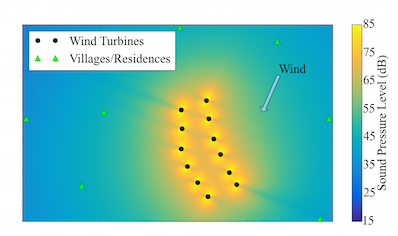
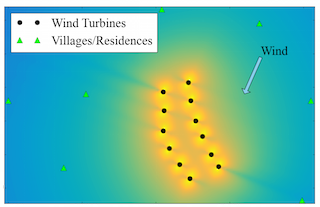
update research page

diff --git a/research/index.html b/research/index.html
@@ -199,7 +199,7 @@
       <span class="sidebar-nav-item">Currently v2.1.0</span> -->
     </nav>
 
-    <p>&copy; 2015. All rights reserved.</p>
+    <p>&copy; 2016. All rights reserved.</p>
   </div>
 </div>
 
@@ -207,20 +207,45 @@
     <div class="content container">
       <div class="page">
   <h1 class="page-title">Research</h1>
-  <h1 id="current-projects">Current Projects</h1>
+  <h2 id="current-projects">Current Projects</h2>
+
+<h3 id="wing/blade-aeroelastic-optimization-using-isogeometric-analysis-(iga)">Wing/Blade Aeroelastic Optimization Using Isogeometric Analysis (IGA)</h3>
+
+<p><img src="wing.png" class="width-half"></p>
+
+<p>CAD formats provide a rich geometric description but usually require manual geometry repair and mesh generation steps that makes automating high-fidelity analyses difficult.  IGA generalizes finite element analysis to allow operation directly on an analysis-suitable geometry.  In addition, with IGA we can provide exact gradients of structural outputs.  This allows us to efficiently use optimization methods on rich geometries for applications in flexible aircraft wing and wind turbine blade aerostructural design.</p>
+
+<div style="clear: both;"></div>
+
+<ul>
+<li>PI: <a href="http://isogeometric.et.byu.edu">Michael Scott</a> (Civil Eng.)</li>
+<li>Students: Bryce Ingersoll, Kyle Richardson (Civil Eng.)</li>
+<li>Sponsor: Internal Research Initiation Grant</li>
+</ul>
+
+<hr>
 
 <h3 id="wind-farm-optimization-under-uncertainty">Wind Farm Optimization Under Uncertainty</h3>
 
-<p>Effective wind farm optimization involves a large number of design variables and contains many sources of uncertainty (e.g., wind direction, wind speed, turbulence levels, wake model parameters, etc.).  We are developing scalable methods for large-scale optimization, uncertainty quantification, and optimization under uncertainty and applying these methods to advance energy sustainability through improved wind farm performance. </p>
+<p><img src="wind-rose2.png" class="width-half"></p>
+
+<p>Effective wind farm optimization involves a large number of design variables and contains many sources of uncertainty (e.g., wind direction, wind speed, turbulence levels, wake model parameters, etc.).  We are developing methodology for large-scale optimization under uncertainty with applications in improving the robustness of wind farm energy capture. </p>
+
+<div style="clear: both;"></div>
 
 <ul>
+<li>Students: P.J. Stanley, Jared Thomas</li>
+<li>Collaborators: Juan Alonso (Stanford), Santiago Padron (Stanford)</li>
 <li>Sponsor: <a href="http://www.nsf.gov/awardsearch/showAward?AWD_ID=1539384">National Science Foundation</a></li>
-<li>Co-PI: Juan Alonso (Stanford)</li>
 </ul>
+
+<hr>
 
 <h3 id="vawt-wake-model-development">VAWT Wake Model Development</h3>
 
-<p><img src="vawt_wake.jpg" class="research-image img-left"></p>
+<p><img src="vawt-velocity.png" class="width-full"></p>
+
+<!-- <img src="vawt_wake.jpg" class="research-image img-left"> -->
 
 <p>Vertical axis wind turbines (VAWTs) are a promising technology for offshore applications and in the built environment.  Performance of wind farms is highly dependent on effective integration, and this research is focused on developing engineering wake models for VAWTs to enable farm optimization.</p>
 
@@ -229,68 +254,81 @@
 <!-- VAWT wind farms will face similar challenges, but VAWTs have very different wake behavior that must be understood to effectively design their layout. The evolution of wakes behind wind turbines is a complex turbulent process that can be visualized with high-fidelity instrumentation or high-fidelity simulation. However, for performing layout optimization, which must broadly explore many configurations, simpler engineering wake models are needed. This research effort is focused on developing VAWT engineering wake models to enable effective VAWT wind farm layout optimization. -->
 
 <ul>
-<li>Students: <a href="../people/eric">Eric Tingey</a>, Nick Bons (graduated), Dagan Pielstick</li>
+<li>Students: Eric Tingey, Dagan Pielstick, Nick Bons</li>
 <li>Sponsors: Internal seed grant (<a href="https://orca.byu.edu/meg/">MEG Grant</a>)</li>
+<li>Publications: <a href="../publications/#Tingey2016">Parametric VAWT Model</a></li>
 </ul>
+
+<hr>
 
 <h3 id="integrated-wind-farm-layout-optimization">Integrated Wind Farm Layout Optimization</h3>
 
-<p><img src="windRose.png" class="research-image img-right"></p>
+<p><img src="wind-farm.png" class="width-half"></p>
 
-<p>Efficient layout design is a significant challenge, and today’s wind farms underperform energy capture expectations by around 10-20%.  We seek to efficiently combine turbine, layout, and controls optimization in an integrated manner.  Recent work has compared the <a href="../publications/#Thomas2015">impact of two different wake models on optimization</a> and conducted initial studies in combined <a href="../publications/#Fleming2015">layout-yaw optimization</a></p>
+<p>Efficient layout design is a significant challenge, and today’s wind farms underperform energy capture expectations by around 10-20%.  We seek to efficiently combine turbine, layout, and controls optimization in an integrated manner.</p>
 
 <!-- Wind plant controls seek to improve global wind plant performance over control systems in which each turbine optimizes only its individual performance by accounting for the way wind turbines interact through their wakes.   -->
 
+<div style="clear: both;"></div>
+
 <ul>
-<li>Students: <a href="../people/jared">Jared Thomas</a></li>
-<li>Sponsors: <a href="http://www.nrel.gov">National Renewable Energy Laboratory</a></li>
+<li>Students: Jared Thomas</li>
 <li>Collaborators: Pieter Gebraad, Paul Fleming, Katherine Dykes</li>
+<li>Sponsors: <a href="http://www.nrel.gov">National Renewable Energy Laboratory</a></li>
+<li>Publications: <a href="../publications/#Gebraad2015">Impact on Annual Energy Production</a>, <a href="../publications/#Thomas2015">Comparison of Two Wake Models</a>, <a href="../publications/#Fleming2015">Combined Layout-Yaw Optimization</a></li>
 </ul>
+
+<hr>
 
 <h3 id="free-form-aerostructural-rotor-design">Free-form Aerostructural Rotor Design</h3>
 
-<p><img src="clsurf.png" class="research-image img-left"></p>
+<p><img src="blade.png" class="width-half"></p>
 
-<p>By free-form design we mean simultaneous airfoil and blade design as opposed to the traditional sequential approach.  We are exploring free-form design through a range of fidelities.  <a href="../publications/Barrett2015">Initial studies</a> have been helpful in quantifying expected benefits.</p>
+<p>Free-form design means simultaneous airfoil and blade design as opposed to the traditional sequential approach.  We are exploring free-form design through a range of fidelities including pretabulated data, panel methods, 2D CFD, and 3D CFD.</p>
 
 <div style="clear: both;"></div>
 
 <ul>
 <li>Students: <a href="../people/ryan">Ryan Barrett</a></li>
+<li>Publications: <a href="../publications/#Barrett2015a">Precomputational Methods</a>, <a href="../publications/#Barrett2015">Aerostructural Blade Optimization</a>.</li>
 </ul>
+
+<hr>
 
 <h3 id="acoustic-impacts-on-wind-farm-layout">Acoustic Impacts on Wind Farm Layout</h3>
 
-<p><img src="SPL.png" class="research-image img-right"></p>
+<p><img src="SPL.png" class="width-half"></p>
 
-<p>Acoustics can play an important role in wind farm design and we are interested in understanding its impact through <a href="../publications/#Tingey2015">optimization</a> and in developing better acoustic models for wind farms.</p>
+<p>Acoustics can play an important role in wind farm design and we are interested in understanding its impact through optimization and in developing better acoustic models for wind farms.</p>
 
 <div style="clear: both;"></div>
 
 <ul>
 <li>Students: <a href="../people/eric">Eric Tingey</a></li>
+<li>Publications: <a href="../publications/#Tingey2015">Layout Optimization with Acoustic Constraints</a></li>
 </ul>
 
-<h3 id="passive-flow-control-devices-for-low-reynolds-number-propellers">Passive-Flow Control Devices for Low Reynolds Number Propellers</h3>
-
-<p>We are conducting wind tunnel tests to characterize performance of novel UAV propeller concepts.</p>
-
-<ul>
-<li>Students: Kevin Moore</li>
-</ul>
+<hr>
 
 <h3 id="unmanned-aerial-vehicle-trajectory-optimization">Unmanned Aerial Vehicle Trajectory Optimization</h3>
+
+<p><img src="path-planning.png" class="width-half"></p>
 
 <p>Robust UAV trajectory optimization is steeped with challenges including static and dynamic obstacles, performance variability, uncertain environmental conditions, component failures, etc.  We are exploring convex optimization approaches, exploratory gradient-based approaches, and UAV aerodynamic performance modeling.</p>
 
 <ul>
-<li>Students: Matt Duffield (Tim McLain is his primary advisor), Bryce Ingersoll, Taylor McDonnell</li>
+<li>Students: Bryce Ingersoll, Matt Duffield, Taylor McDonnell</li>
 <li>Collaborators: Tim McLain</li>
+<li>Publications: <a href="../publications/#Duffield2016">Path Planning with Convex Optimization</a></li>
 </ul>
+
+<div style="clear: both;"></div>
+
+<hr>
 
 <h3 id="quantitative-characterization-of-essential-tremor-for-future-tremor-suppression">Quantitative Characterization of Essential Tremor for Future Tremor Suppression</h3>
 
-<p>Essential tremor (ET) is one of the most common movement disorders, estimated to affect 1 - 12 million people in the US.  We are developing optimization models in collaboration with the <a href="https://neuromechanics.byu.edu">BYU Neuromechanics Research Group</a> to help establish the mechanical origin of the tremor.</p>
+<p>Essential tremor (ET) is one of the most common movement disorders, estimated to affect 1-12 million people in the US.  We are developing optimization models in collaboration with the <a href="https://neuromechanics.byu.edu">BYU Neuromechanics Research Group</a> to help establish the mechanical origin of the tremor.</p>
 
 <ul>
 <li>PI: Steven Charles</li>
@@ -298,27 +336,48 @@
 <li>Sponsor: National Institute of Health</li>
 </ul>
 
+<hr>
+
+<h2 id="past-projects">Past Projects</h2>
+
+<h3 id="passive-flow-control-devices-for-low-reynolds-number-propellers">Passive-Flow Control Devices for Low Reynolds Number Propellers</h3>
+
+<p><img src="prop.jpg" class="width-half"></p>
+
+<p>We are conducting wind tunnel tests to characterize performance of novel UAV propeller concepts.</p>
+
 <div style="clear: both;"></div>
 
-<h1 id="past-projects">Past Projects</h1>
+<ul>
+<li>Students: Kevin Moore</li>
+<li>Publications: <a href="../publications/#Moore2016">Small Propellers with Leading Edge Protrusions</a></li>
+</ul>
+
+<hr>
 
 <h3 id="wind-turbine-design-optimization-and-tool-development-(postdoc-at-nrel)">Wind Turbine Design Optimization and Tool Development (Postdoc at NREL)</h3>
 
-<p><img src="windfarm_illustration.jpg" class="research-image img-left">
-Efficient extraction of wind energy is a complex, multidisciplinary process.  We have developed a number of open-source integrated wind turbine analysis tools as part of the <a href="https://nwtc.nrel.gov/WISDEM">WISDEM</a> toolset.  Many of these tools provide exact gradients through automatic differentiation and/or adjoint methods.  During the development a new methodology for solving the blade element momentum equations was developed with <a href="../publications/#Ning2014">guaranteed convergence</a>---useful for use with gradient-based optimization. These models have been in studies to understand the <a href="../publications/#Ning2014c">impact of using different objectives</a> in wind turbine optimization, analyze the impact of <a href="../publications/#Ning2014d">high-tip speed rotors</a>, compare optimized <a href="../publications/#Ning2014a">downwind and upwind turbines</a>, and study the benefits of <a href="../publications/#Gray2014">mixed-derivatives in wind turbine optimization</a>.</p>
+<p><img src="windfarm_illustration.jpg" class="width-half">
+Efficient extraction of wind energy is a complex, multidisciplinary process.  We have developed a number of open-source integrated wind turbine analysis tools as part of the <a href="https://nwtc.nrel.gov/WISDEM">WISDEM</a> toolset.  Many of these tools provide exact gradients through automatic differentiation and/or adjoint methods.  These tools have supported a number of turbine design studies.</p>
 
 <ul>
 <li>Collaborators: Katherine Dykes, Rick Damiani, many others ...</li>
-<li>Sponsor: Department of Energy (this work occurred while I was an NREL employee)</li>
+<li>Sponsor: Department of Energy (work occurred while I was an NREL employee)</li>
+<li>Publications: <a href="../publications/#Ning2014">Solve BEM equations with Guaranteed Convergence</a>, <a href="../publications/#Ning2014c">Impact of Different Objectives</a>, <a href="../publications/#Ning2014d">High-Tip Speed Rotors</a>, <a href="../publications/#Ning2014a">Downwind Turbines</a>, <a href="../publications/#Gray2014">Mixed-Derivatives in Wind Turbine Optimization</a></li>
 </ul>
+
+<hr>
 
 <h3 id="formation-flight-(ph.d.-at-stanford)">Formation Flight (Ph.D. at Stanford)</h3>
 
-<p><img src="formflight_big.png" class="research-image img-right">  We explore a safer approach to formation flying of transport aircraft, which we term <em>extended formation flight</em>. Extended formations take advantage of the persistence of cruise wakes and extends the streamwise separation between the aircraft by at least five wingspans. At large distances, considerations such as wake rollup, atmospheric effects on circulation decay, and vortex motion become important to consider. We examine the wake rollup process in the context of extended formations and develop appropriate physics-based models. Our research address multiple aspects of formation flight: <a href="../publications/#Ning2011">longitudinally extended formations</a>, <a href="../publications/#Ning2014b">compressibility effects</a>, formations of <a href="../publications/#Ning2011b">heterogeneous aircraft</a>, and <a href="../publications/#Xu2014a">formation route optimization</a>.</p>
+<p><img src="formflight.png" class="width-full">  </p>
+
+<p>We explore a safer approach to formation flying of transport aircraft, which we term <em>extended formation flight</em>. Extended formations take advantage of the persistence of cruise wakes and extends the streamwise separation between the aircraft by at least five wingspans. At large distances, considerations such as wake rollup, atmospheric effects on circulation decay, and vortex motion become important to consider. We examine the wake rollup process in the context of extended formations and develop appropriate physics-based models. </p>
 
 <ul>
 <li>Collaborators: Mike Aftosmis, Marian Nemec, James Kless</li>
 <li>Sponsors: <a href="https://ndseg.asee.org">NDSEG Fellowship</a>, <a href="http://www.airbus.com">Airbus</a></li>
+<li>Publications: <a href="../publications/#Ning2011">Longitudinally Extended Formations</a>, <a href="../publications/#Ning2014b">Compressibility Effects</a>, <a href="../publications/#Ning2011b">Heterogeneous Aircraft</a>, <a href="../publications/#Xu2014a">Formation Route Optimization</a></li>
 </ul>
 
 </div>

diff --git a/publications/index.html b/publications/index.html
@@ -199,7 +199,7 @@
       <span class="sidebar-nav-item">Currently v2.1.0</span> -->
     </nav>
 
-    <p>&copy; 2015. All rights reserved.</p>
+    <p>&copy; 2016. All rights reserved.</p>
   </div>
 </div>
 
@@ -207,7 +207,7 @@
     <div class="content container">
       <div class="page">
   <h1 class="page-title">Publications</h1>
-  <p>To support open science we endeavor to make preprints, code, and data publicly available as much as possible.  PDF links are for preprints and DOI links are for publisher hosted postprints.</p>
+  <p>To support open science we endeavor to make preprints, code, and data publicly available as much as possible.  PDF links are for preprints, and DOI links are for publisher hosted postprints.</p>
 
 <h2 id="journal-articles">Journal Articles</h2>
 

diff --git a/public/css/my.css b/public/css/my.css
@@ -21,13 +21,34 @@ h2{
 
 
 /* style images on reserach page */
-.research-image{
+/*.research-image{
   width: 100%;
   margin-top: 10px;
 }
 @media (min-width: 48em) {
   .research-image{
       width: 16em;
+  }
+}*/
+
+.width-full{
+  width: 100%;
+  margin-top: 10px;
+}
+
+.width-half{
+  width: 45%;
+  float: right;
+  margin-left: 20px;
+  margin-top: 10px;
+}
+
+@media (max-width: 48em) {
+  .width-half{
+      width: 100%;
+      margin-top: 10px;
+      margin-left: 0px;
+      float: none;
   }
 }
 

diff --git a/404.html b/404.html
@@ -199,7 +199,7 @@
       <span class="sidebar-nav-item">Currently v2.1.0</span> -->
     </nav>
 
-    <p>&copy; 2015. All rights reserved.</p>
+    <p>&copy; 2016. All rights reserved.</p>
   </div>
 </div>
 

diff --git a/index.html b/index.html
@@ -199,7 +199,7 @@
       <span class="sidebar-nav-item">Currently v2.1.0</span> -->
     </nav>
 
-    <p>&copy; 2015. All rights reserved.</p>
+    <p>&copy; 2016. All rights reserved.</p>
   </div>
 </div>
 

diff --git a/people/andrew/index.html b/people/andrew/index.html
@@ -199,7 +199,7 @@
       <span class="sidebar-nav-item">Currently v2.1.0</span> -->
     </nav>
 
-    <p>&copy; 2015. All rights reserved.</p>
+    <p>&copy; 2016. All rights reserved.</p>
   </div>
 </div>
 

diff --git a/people/index.html b/people/index.html
@@ -199,7 +199,7 @@
       <span class="sidebar-nav-item">Currently v2.1.0</span> -->
     </nav>
 
-    <p>&copy; 2015. All rights reserved.</p>
+    <p>&copy; 2016. All rights reserved.</p>
   </div>
 </div>
 

diff --git a/posts/index.html b/posts/index.html
@@ -199,7 +199,7 @@
       <span class="sidebar-nav-item">Currently v2.1.0</span> -->
     </nav>
 
-    <p>&copy; 2015. All rights reserved.</p>
+    <p>&copy; 2016. All rights reserved.</p>
   </div>
 </div>
 

diff --git a/posts/julia-first-imp/index.html b/posts/julia-first-imp/index.html
@@ -199,7 +199,7 @@
       <span class="sidebar-nav-item">Currently v2.1.0</span> -->
     </nav>
 
-    <p>&copy; 2015. All rights reserved.</p>
+    <p>&copy; 2016. All rights reserved.</p>
   </div>
 </div>
 

diff --git a/posts/sci-prog-lang/index.html b/posts/sci-prog-lang/index.html
@@ -199,7 +199,7 @@
       <span class="sidebar-nav-item">Currently v2.1.0</span> -->
     </nav>
 
-    <p>&copy; 2015. All rights reserved.</p>
+    <p>&copy; 2016. All rights reserved.</p>
   </div>
 </div>
 

diff --git a/resources/index.html b/resources/index.html
@@ -199,7 +199,7 @@
       <span class="sidebar-nav-item">Currently v2.1.0</span> -->
     </nav>
 
-    <p>&copy; 2015. All rights reserved.</p>
+    <p>&copy; 2016. All rights reserved.</p>
   </div>
 </div>
 

diff --git a/resources/presentations/index.html b/resources/presentations/index.html
@@ -199,7 +199,7 @@
       <span class="sidebar-nav-item">Currently v2.1.0</span> -->
     </nav>
 
-    <p>&copy; 2015. All rights reserved.</p>
+    <p>&copy; 2016. All rights reserved.</p>
   </div>
 </div>
 
